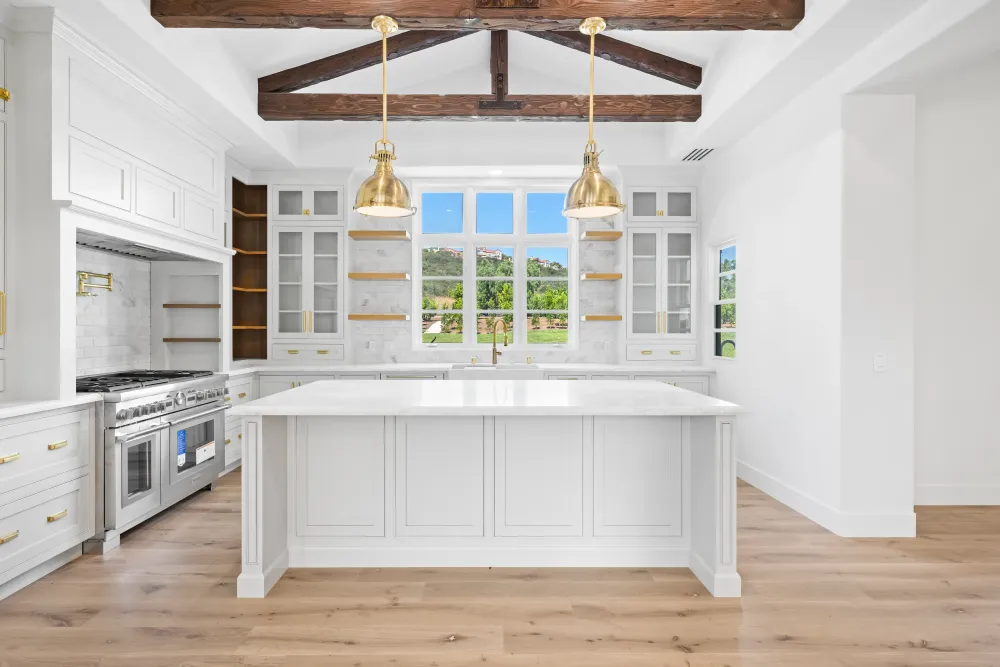
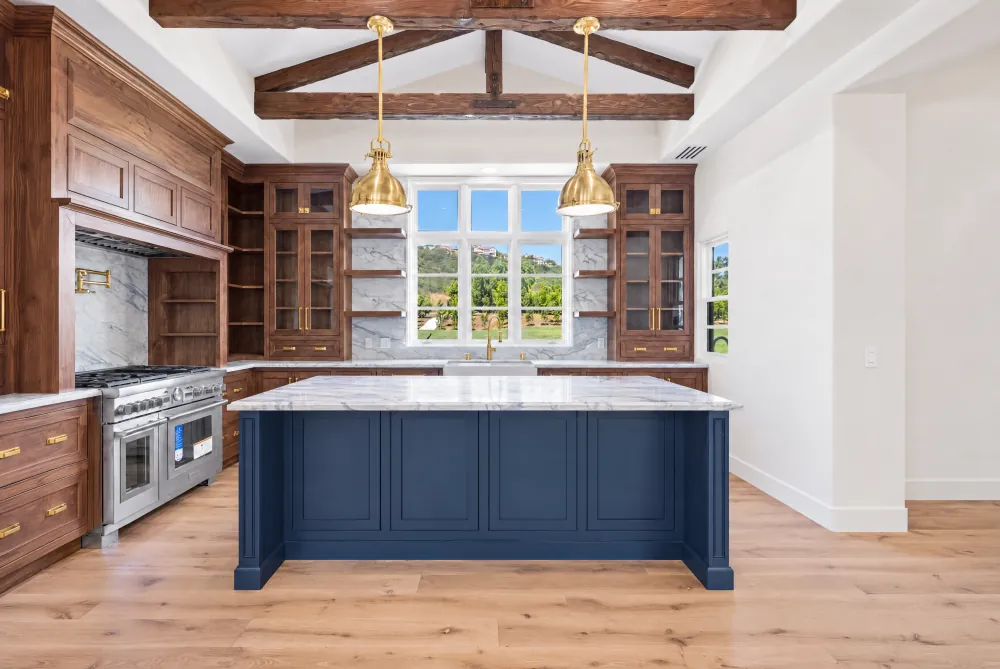
Dalia Drive reshot, and the Unicornio comparison retired
Dalia came back as the same kitchen in walnut with a navy island, where it had
been published as custom white. Only photographs 1 to 8 are reshot, which is
exactly the kitchen set: 9 to 16 and 20 are the four bathrooms and 17 to 21 the
rest of the house, and those are untouched. That split matters, because a blind
swap of eight files onto a job that has twenty-one would have gutted the
bathroom and whole-home pages.

Copy follows the photographs across all three Dalia pages, the Rancho Santa Fe
city page, and the alt text on the three landing pages that feature this
kitchen. The paragraph arguing for white as the least dated colour is gone, and
with it the argument for quartz being consistent across slabs, which the new
counters visibly contradict. The stone is described rather than named, for the
same reason North Star was, until somebody who was there says what it is.

Reflection's alt text on those landing pages was still calling it a white
kitchen from before it was reshot. Fixed in the same pass.

The ba-unicornio before and after pair is removed from both landing pages and
the four files are deleted. Five comparisons remain, Tynebourne among them,
untouched.

diff --git a/kitchen-remodel-rancho-santa-fe-dalia-drive.html b/kitchen-remodel-rancho-santa-fe-dalia-drive.html
@@ -17,7 +17,7 @@
 
 
   <title>Kitchen Remodel in Rancho Santa Fe — Dalia Drive | Guild Builders Inc.</title>
-  <meta name="description" content="A full gut in Rancho Santa Fe with custom white cabinetry, a built-in hood, a panel-front integrated refrigerator, and every appliance in a new location." />
+  <meta name="description" content="A full gut in Rancho Santa Fe with custom walnut cabinetry and a navy island, a built-in hood, a panel-front integrated refrigerator, and every appliance in a new location." />
 
 <link rel="preload" href="fonts/montserrat-latin.woff2" as="font" type="font/woff2" crossorigin />
   <link rel="preload" href="fonts/cormorant-garamond-latin.woff2" as="font" type="font/woff2" crossorigin />
@@ -33,7 +33,7 @@
   <meta property="og:type" content="article" />
   <meta property="og:site_name" content="Guild Builders Inc." />
   <meta property="og:title" content="Kitchen Remodel in Rancho Santa Fe — Dalia Drive | Guild Builders Inc." />
-  <meta property="og:description" content="A full gut in Rancho Santa Fe with custom white cabinetry, a built-in hood, a panel-front integrated refrigerator, and every appliance in a new location." />
+  <meta property="og:description" content="A full gut in Rancho Santa Fe with custom walnut cabinetry and a navy island, a built-in hood, a panel-front integrated refrigerator, and every appliance in a new location." />
   <meta property="og:url" content="https://guildbuildersgroup.com/kitchen-remodel-rancho-santa-fe-dalia-drive" />
   <meta property="og:image" content="https://guildbuildersgroup.com/dalia1-1000.webp" />
   <meta name="twitter:card" content="summary_large_image" />
@@ -50,7 +50,7 @@
     "telephone": "+1-619-763-2982",
     "email": "info@guildbuildersgroup.com",
     "priceRange": "$$$",
-    "description": "A full gut in Rancho Santa Fe with custom white cabinetry, a built-in hood, a panel-front integrated refrigerator, and every appliance in a new location.",
+    "description": "A full gut in Rancho Santa Fe with custom walnut cabinetry and a navy island, a built-in hood, a panel-front integrated refrigerator, and every appliance in a new location.",
     "address": {
       "@type": "PostalAddress",
       "streetAddress": "1345 Encinitas Blvd",
@@ -106,7 +106,7 @@
     "@type": "Service",
     "serviceType": "Kitchen Remodeling",
     "name": "Kitchen Remodeling in Rancho Santa Fe",
-    "description": "A full gut in Rancho Santa Fe with custom white cabinetry, a built-in hood, a panel-front integrated refrigerator, and every appliance in a new location.",
+    "description": "A full gut in Rancho Santa Fe with custom walnut cabinetry and a navy island, a built-in hood, a panel-front integrated refrigerator, and every appliance in a new location.",
     "url": "https://guildbuildersgroup.com/kitchen-remodel-rancho-santa-fe-dalia-drive",
     "provider": {
       "@type": "GeneralContractor",
@@ -157,7 +157,7 @@
       <div class="container hero-content">
         <p class="eyebrow">Project &middot; Rancho Santa Fe</p>
         <h1>Kitchen Remodel in Rancho Santa Fe</h1>
-        <p class="hero-text">Dalia Drive &mdash; custom white cabinetry, a built-in hood, a panel-front integrated refrigerator, and every appliance relocated.</p>
+        <p class="hero-text">Dalia Drive &mdash; custom walnut cabinetry with a navy island, a built-in hood, a panel-front integrated refrigerator, and every appliance relocated.</p>
       </div>
     </section>
 
@@ -171,15 +171,15 @@
             <div class="project-spec"><dt>Location</dt><dd>Rancho Santa Fe, San Diego County</dd></div>
             <div class="project-spec"><dt>Timeline</dt><dd>8 weeks</dd></div>
             <div class="project-spec"><dt>Scope</dt><dd>Full gut, all appliances relocated</dd></div>
-            <div class="project-spec"><dt>Cabinetry</dt><dd>Custom white, built-in hood</dd></div>
+            <div class="project-spec"><dt>Cabinetry</dt><dd>Custom walnut, navy island, built-in hood</dd></div>
             <div class="project-spec"><dt>Refrigerator</dt><dd>Panel-front, integrated into the cabinetry</dd></div>
-            <div class="project-spec"><dt>Counters</dt><dd>Quartz</dd></div>
+            <div class="project-spec"><dt>Counters</dt><dd>Stone</dd></div>
             <div class="project-spec"><dt>Backsplash</dt><dd>Tile</dd></div>
             <div class="project-spec"><dt>Flooring</dt><dd>New engineered hardwood</dd></div>
           </dl>
 
           <div class="post-body">
-<p>A full gut in Rancho Santa Fe, built in custom white cabinetry with every appliance in a new location and a refrigerator you cannot pick out of the run.</p>
+<p>A full gut in Rancho Santa Fe, built in custom walnut with a navy island, every appliance in a new location, and a refrigerator you cannot pick out of the run.</p>
 
 <h2>The panel-front refrigerator</h2>
 
@@ -195,11 +195,11 @@
 
 <p>Like the refrigerator, this has to be planned early. The venting has to be routed before anything closes up, the surround has to be framed to the insert's clearances, and the whole assembly has to land at a height that clears the cook without cutting the wall in half visually.</p>
 
-<h2>Custom white cabinets</h2>
+<h2>Custom walnut, and a navy island</h2>
 
-<p>Full custom throughout, in white. Custom earns its cost in a kitchen like this one, where the cabinetry has to absorb a refrigerator and a hood and still read as one continuous run &mdash; every box is built to the wall it sits against and to the appliance it surrounds.</p>
+<p>Full custom throughout, in walnut. Custom earns its cost in a kitchen like this one, where the cabinetry has to absorb a refrigerator and a hood and still read as one continuous run &mdash; every box is built to the wall it sits against and to the appliance it surrounds. In a timber this dark the grain also has to be sequenced across the doors, so a run reads as one piece of wood rather than as a row of unrelated panels.</p>
 
-<p>White holds up because it is the least dated colour a kitchen can be. Cabinet colours cycle; white was in these kitchens before the current cycle and will be there after.</p>
+<p>The island is painted navy against it. Two finishes rather than one gives the room a centre: the walnut carries the walls and the island reads as a separate piece of furniture standing in the middle of the floor, which is what a room of this size needs so it does not read as one continuous wall of cabinetry.</p>
 
 <h2>Every appliance relocated</h2>
 
@@ -207,13 +207,13 @@
 
 <p>Moving appliances is the part of a remodel homeowners tend to be talked out of, because it adds work that does not photograph. It is also the part that determines whether the kitchen is pleasant to cook in &mdash; where the range sits relative to the sink, whether the refrigerator door blocks the walkway, how far you carry a hot pan.</p>
 
-<h2>Quartz, tile and hardwood</h2>
+<h2>Stone, tile and hardwood</h2>
 
-<p>Quartz counters, a tile backsplash, and new engineered hardwood. Quartz is the practical counter for a kitchen that gets used: non-porous, no sealing, and consistent across slabs, so a long run does not shift pattern halfway down.</p>
+<p>Stone counters with heavy veining, a tile backsplash and new engineered hardwood. On an island this long the slab is the thing you see most of, and veining at this scale has to be laid out before it is cut: the pattern runs the length of the island and matches where it turns the corner, which is a cutting decision rather than a shopping one.</p>
 
 <h2>The result</h2>
 
-<p>A custom white kitchen where the appliances disappear into the cabinetry and the layout was rebuilt around how the room is actually used. Eight weeks from demolition to final walkthrough.</p>
+<p>A custom walnut kitchen where the appliances disappear into the cabinetry and the layout was rebuilt around how the room is actually used. Eight weeks from demolition to final walkthrough.</p>
 
           </div>
 

diff --git a/home-renovation-rancho-santa-fe-dalia-drive.html b/home-renovation-rancho-santa-fe-dalia-drive.html
@@ -17,7 +17,7 @@
 
 
   <title>Whole Home Renovation in Rancho Santa Fe — Dalia Drive | Guild Builders Inc.</title>
-  <meta name="description" content="A whole-home renovation in Rancho Santa Fe: a custom white kitchen with an integrated panel-front refrigerator, and four bathrooms including a fully relocated master and a panelled powder room." />
+  <meta name="description" content="A whole-home renovation in Rancho Santa Fe: a custom walnut kitchen with a navy island and an integrated panel-front refrigerator, and four bathrooms including a fully relocated master and a panelled powder room." />
 
 <link rel="preload" href="fonts/montserrat-latin.woff2" as="font" type="font/woff2" crossorigin />
   <link rel="preload" href="fonts/cormorant-garamond-latin.woff2" as="font" type="font/woff2" crossorigin />
@@ -33,7 +33,7 @@
   <meta property="og:type" content="article" />
   <meta property="og:site_name" content="Guild Builders Inc." />
   <meta property="og:title" content="Whole Home Renovation in Rancho Santa Fe — Dalia Drive | Guild Builders Inc." />
-  <meta property="og:description" content="A whole-home renovation in Rancho Santa Fe: a custom white kitchen with an integrated panel-front refrigerator, and four bathrooms including a fully relocated master and a panelled powder room." />
+  <meta property="og:description" content="A whole-home renovation in Rancho Santa Fe: a custom walnut kitchen with a navy island and an integrated panel-front refrigerator, and four bathrooms including a fully relocated master and a panelled powder room." />
   <meta property="og:url" content="https://guildbuildersgroup.com/home-renovation-rancho-santa-fe-dalia-drive" />
   <meta property="og:image" content="https://guildbuildersgroup.com/dalia1-1000.webp" />
   <meta name="twitter:card" content="summary_large_image" />
@@ -50,7 +50,7 @@
     "telephone": "+1-619-763-2982",
     "email": "info@guildbuildersgroup.com",
     "priceRange": "$$$",
-    "description": "A whole-home renovation in Rancho Santa Fe: a custom white kitchen with an integrated panel-front refrigerator, and four bathrooms including a fully relocated master and a panelled powder room.",
+    "description": "A whole-home renovation in Rancho Santa Fe: a custom walnut kitchen with a navy island and an integrated panel-front refrigerator, and four bathrooms including a fully relocated master and a panelled powder room.",
     "address": {
       "@type": "PostalAddress",
       "streetAddress": "1345 Encinitas Blvd",
@@ -106,7 +106,7 @@
     "@type": "Service",
     "serviceType": "Home Renovation",
     "name": "Home Renovation in Rancho Santa Fe",
-    "description": "A whole-home renovation in Rancho Santa Fe: a custom white kitchen with an integrated panel-front refrigerator, and four bathrooms including a fully relocated master and a panelled powder room.",
+    "description": "A whole-home renovation in Rancho Santa Fe: a custom walnut kitchen with a navy island and an integrated panel-front refrigerator, and four bathrooms including a fully relocated master and a panelled powder room.",
     "url": "https://guildbuildersgroup.com/home-renovation-rancho-santa-fe-dalia-drive",
     "provider": {
       "@type": "GeneralContractor",
@@ -157,7 +157,7 @@
       <div class="container hero-content">
         <p class="eyebrow">Project &middot; Rancho Santa Fe</p>
         <h1>Whole Home Renovation in Rancho Santa Fe</h1>
-        <p class="hero-text">Dalia Drive &mdash; a custom white kitchen with a panel-front integrated refrigerator, and four bathrooms including a master rebuilt from the layout up.</p>
+        <p class="hero-text">Dalia Drive &mdash; a custom walnut kitchen with a navy island and a panel-front integrated refrigerator, and four bathrooms including a master rebuilt from the layout up.</p>
       </div>
     </section>
 
@@ -172,7 +172,7 @@
             <div class="project-spec"><dt>Scope</dt><dd>Kitchen and four bathrooms</dd></div>
             <div class="project-spec"><dt>Kitchen</dt><dd>8 weeks &mdash; full gut, all appliances relocated</dd></div>
             <div class="project-spec"><dt>Bathrooms</dt><dd>6 weeks &mdash; master, two guest, powder room</dd></div>
-            <div class="project-spec"><dt>Cabinetry</dt><dd>Custom white throughout, built-in hood, custom vanities</dd></div>
+            <div class="project-spec"><dt>Cabinetry</dt><dd>Custom throughout, walnut kitchen, built-in hood, custom vanities</dd></div>
             <div class="project-spec"><dt>Refrigerator</dt><dd>Panel-front, integrated into the cabinetry</dd></div>
             <div class="project-spec"><dt>Counters</dt><dd>Quartz in the kitchen, quartzite in the master bathroom</dd></div>
             <div class="project-spec"><dt>Flooring</dt><dd>Engineered hardwood, tile in the bathrooms</dd></div>
@@ -183,7 +183,7 @@
 
 <h2>The kitchen</h2>
 
-<p>A full gut with every appliance relocated, built in custom white cabinetry with a built-in hood and a refrigerator you cannot pick out of the run.</p>
+<p>A full gut with every appliance relocated, built in custom walnut with a navy island, a built-in hood and a refrigerator you cannot pick out of the run.</p>
 
 <p>The refrigerator is fronted in the same panels as the cabinets around it, so from across the room it reads as tall cabinetry rather than as an appliance. That is a construction decision rather than a finish one: a panel-ready refrigerator has to be specified before the cabinets are built, because the surrounding boxes are made to its exact dimensions and the panels are made to match the doors beside them. There is no retrofitting it.</p>
 

diff --git a/custom-cabinets.html b/custom-cabinets.html
@@ -309,23 +309,7 @@
                  alt="Carmel Valley kitchen after the remodel" loading="lazy" />
           </div>
         </div>
-        <div class="lp-ba-item">
-          <div class="lp-ba-side">
-            <span class="lp-ba-label">Before</span>
-            <img class="lp-ba-img" data-lightbox-group="beforeafter" data-full="ba-unicornio-before.webp" src="ba-unicornio-before-600.webp"
-                 srcset="ba-unicornio-before-600.webp 600w, ba-unicornio-before.webp 1200w"
-                 sizes="(max-width: 700px) 92vw, 45vw" width="1200" height="750"
-                 alt="Carlsbad kitchen before the remodel" loading="lazy" />
-          </div>
-          <span class="lp-ba-turn" aria-hidden="true"><svg viewBox="0 0 72 30" width="72" height="30" fill="none"><path d="M3 21 C 17 5, 42 2, 60 12" fill="none" stroke="currentColor" stroke-width="2.4" stroke-linecap="round"/><path d="M64.4 14.4 L56.1 14.5 L60.1 7.3 Z" fill="currentColor"/></svg></span>
-          <div class="lp-ba-side">
-            <span class="lp-ba-label">After</span>
-            <img class="lp-ba-img" data-lightbox-group="beforeafter" data-full="ba-unicornio-after.webp" src="ba-unicornio-after-600.webp"
-                 srcset="ba-unicornio-after-600.webp 600w, ba-unicornio-after.webp 1200w"
-                 sizes="(max-width: 700px) 92vw, 45vw" width="1200" height="750"
-                 alt="Carlsbad kitchen after the remodel" loading="lazy" />
-          </div>
-        </div>
+        
         <div class="lp-ba-item">
           <div class="lp-ba-side">
             <span class="lp-ba-label">Before</span>
@@ -536,7 +520,7 @@
         </div>
         <div class="lp-step">
           <div class="lp-step-photo">
-            <img src="dalia6-1000.webp" alt="White kitchen with a professional range, marble slab backsplash and brass hardware" width="1000" height="667" loading="lazy" />
+            <img src="dalia6-1000.webp" alt="Walnut kitchen with a navy island, a professional range and brass hardware" width="1000" height="667" loading="lazy" />
             <span class="lp-step-num">3</span>
           </div>
           <h3>Your Design</h3>
@@ -544,7 +528,7 @@
         </div>
         <div class="lp-step">
           <div class="lp-step-photo">
-            <img src="reflection1-1000.webp" alt="White kitchen with a quartz waterfall island, stainless steel range and floating shelves" width="1000" height="667" loading="lazy" />
+            <img src="reflection1-1000.webp" alt="Walnut kitchen with a stone waterfall island, stainless steel range and floating shelves" width="1000" height="667" loading="lazy" />
             <span class="lp-step-num">4</span>
           </div>
           <h3>We Build It</h3>

diff --git a/kitchen-remodel-a.html b/kitchen-remodel-a.html
@@ -292,23 +292,7 @@
                  alt="Carmel Valley kitchen after the remodel" loading="lazy" />
           </div>
         </div>
-        <div class="lp-ba-item">
-          <div class="lp-ba-side">
-            <span class="lp-ba-label">Before</span>
-            <img class="lp-ba-img" data-lightbox-group="beforeafter" data-full="ba-unicornio-before.webp" src="ba-unicornio-before-600.webp"
-                 srcset="ba-unicornio-before-600.webp 600w, ba-unicornio-before.webp 1200w"
-                 sizes="(max-width: 700px) 92vw, 45vw" width="1200" height="750"
-                 alt="Carlsbad kitchen before the remodel" loading="lazy" />
-          </div>
-          <span class="lp-ba-turn" aria-hidden="true"><svg viewBox="0 0 72 30" width="72" height="30" fill="none"><path d="M3 21 C 17 5, 42 2, 60 12" fill="none" stroke="currentColor" stroke-width="2.4" stroke-linecap="round"/><path d="M64.4 14.4 L56.1 14.5 L60.1 7.3 Z" fill="currentColor"/></svg></span>
-          <div class="lp-ba-side">
-            <span class="lp-ba-label">After</span>
-            <img class="lp-ba-img" data-lightbox-group="beforeafter" data-full="ba-unicornio-after.webp" src="ba-unicornio-after-600.webp"
-                 srcset="ba-unicornio-after-600.webp 600w, ba-unicornio-after.webp 1200w"
-                 sizes="(max-width: 700px) 92vw, 45vw" width="1200" height="750"
-                 alt="Carlsbad kitchen after the remodel" loading="lazy" />
-          </div>
-        </div>
+        
         <div class="lp-ba-item">
           <div class="lp-ba-side">
             <span class="lp-ba-label">Before</span>
@@ -519,7 +503,7 @@
         </div>
         <div class="lp-step">
           <div class="lp-step-photo">
-            <img src="dalia6-1000.webp" alt="White kitchen with a professional range, marble slab backsplash and brass hardware" width="1000" height="667" loading="lazy" />
+            <img src="dalia6-1000.webp" alt="Walnut kitchen with a navy island, a professional range and brass hardware" width="1000" height="667" loading="lazy" />
             <span class="lp-step-num">3</span>
           </div>
           <h3>Your Design</h3>
@@ -527,7 +511,7 @@
         </div>
         <div class="lp-step">
           <div class="lp-step-photo">
-            <img src="reflection1-1000.webp" alt="White kitchen with a quartz waterfall island, stainless steel range and floating shelves" width="1000" height="667" loading="lazy" />
+            <img src="reflection1-1000.webp" alt="Walnut kitchen with a stone waterfall island, stainless steel range and floating shelves" width="1000" height="667" loading="lazy" />
             <span class="lp-step-num">4</span>
           </div>
           <h3>We Build It</h3>

diff --git a/index.html b/index.html
@@ -349,7 +349,7 @@
           </div>
           <div class="gb-step">
             <div class="gb-step-photo">
-              <img src="dalia6-1000.webp" alt="White kitchen with a professional range, marble slab backsplash and brass hardware" width="1000" height="667" loading="lazy" />
+              <img src="dalia6-1000.webp" alt="Walnut kitchen with a navy island, a professional range and brass hardware" width="1000" height="667" loading="lazy" />
               <span class="gb-step-num">3</span>
             </div>
             <h3>Your Design</h3>
@@ -357,7 +357,7 @@
           </div>
           <div class="gb-step">
             <div class="gb-step-photo">
-              <img src="reflection1-1000.webp" alt="White kitchen with a quartz waterfall island, stainless steel range and floating shelves" width="1000" height="667" loading="lazy" />
+              <img src="reflection1-1000.webp" alt="Walnut kitchen with a stone waterfall island, stainless steel range and floating shelves" width="1000" height="667" loading="lazy" />
               <span class="gb-step-num">4</span>
             </div>
             <h3>We Build It</h3>

diff --git a/rancho-santa-fe.html b/rancho-santa-fe.html
@@ -176,7 +176,7 @@
           <img src="dalia1-1000.webp" alt="Dalia Drive &mdash; whole home renovation in Rancho Santa Fe" loading="lazy" />
           <div class="city-project-body">
             <h3>Dalia Drive &mdash; Whole Home Renovation</h3>
-            <p>A whole-home renovation in Rancho Santa Fe: a custom white kitchen with an integrated panel-front refrigerator, and four bathrooms including a fully relocated master and a panelled powder room.</p>
+            <p>A whole-home renovation in Rancho Santa Fe: a custom walnut kitchen with a navy island and an integrated panel-front refrigerator, and four bathrooms including a fully relocated master and a panelled powder room.</p>
             <span class="city-project-cta">See the project &rarr;</span>
           </div>
         </a>
